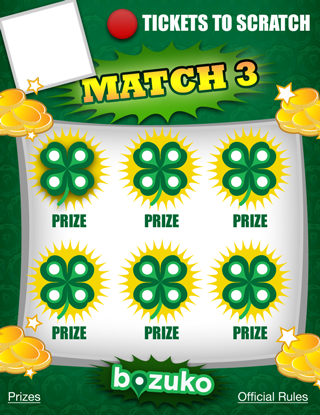
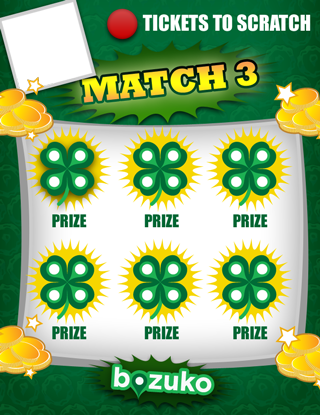
Added correct scratch background

diff --git a/app/static/js/desktop/admin/view/contest/View.js b/app/static/js/desktop/admin/view/contest/View.js
@@ -28,6 +28,9 @@ Ext.define('Bozuko.view.contest.View' ,{
                             '{[this.getDetails(values)]}',
                         '</div>',
                         '<ul class="buttons">',
+                            '<tpl if="this.canReport(values)">',
+                                '<li><a href="javascript:;" class="reports">Reports</a></li>',
+                            '</tpl>',
                             '<tpl if="this.canEdit(values)">',
                                 '<li><a href="javascript:;" class="edit">Edit</a></li>',
                             '</tpl>',
@@ -63,6 +66,10 @@ Ext.define('Bozuko.view.contest.View' ,{
                     return ~['active'].indexOf(values.state);
                 },
                 
+                canReport : function(values){
+                    return ~['active','complete','cancelled'].indexOf(values.state);
+                },
+                
                 getTitle : function(name){
                     return name || 'Untitled Campaign';
                 },
@@ -71,6 +78,12 @@ Ext.define('Bozuko.view.contest.View' ,{
                     return [
                         '<table cellpadding="0" cellspacing="0">',
                             '<tbody>',
+                                '<tr>',
+                                    '<th>Game:</th>',
+                                    '<td>',
+                                    values.game ? values.game.substr(0,1).toUpperCase()+values.game.substr(1) : 'Unknown',
+                                    '<td>',
+                                '<tr>',
                                 '<tr>',
                                     '<th>Timeline:</th>',
                                     '<td>',

diff --git a/app/static/js/desktop/admin/controller/Contests.js b/app/static/js/desktop/admin/controller/Contests.js
@@ -241,9 +241,21 @@ Ext.define('Bozuko.controller.Contests' ,{
                         var copy = record.copy();
                         copy.phantom=true;
                         
-                        // initialize the stores
-                        copy.prizes();
-                        copy.consolation_prizes();
+                        // initialize the stores and delete the ids
+                        var prizes = copy.prizes();
+                        var consolations = copy.consolation_prizes();
+                        
+                        record.prizes().each(function(prize){
+                            var c = prize.copy();
+                            c.set('_id','');
+                            prizes.add(c);
+                        });
+                        
+                        record.consolation_prizes().each(function(prize){
+                            var c = prize.copy();
+                            c.set('_id','');
+                            consolations.add(c);
+                        });
                         
                         var now = new Date();
                             diff = copy.get('end').getTime() - copy.get('start').getTime(),

diff --git a/app/static/js/desktop/admin/view/admin/Dashboard.js b/app/static/js/desktop/admin/view/admin/Dashboard.js
@@ -3,10 +3,44 @@ Ext.define('Bozuko.view.admin.Dashboard' ,{
     extend: 'Ext.panel.Panel',
     alias : 'widget.admindashboard',
     
+    bodyPadding: 10,
+    title:"Admin Dashboard",
+    /*
+    layout: {
+        type: 'vbox',
+        align: 'stretch'
+    },
+    */
     initComponent : function(){
-        this.title = "Admin Dashboard";
+        
         this.html = 'The admin dashboard';
-        this.bodyPadding = 10;
+        
+        /*
+         // okay.. lets add a chart.
+        this.items = [{
+            flex: 1,
+            layout: {
+                type: 'hbox',
+                layout: 'stretch'
+            },
+            items: [{
+                border: false,
+                html: 'pretty big'
+            },{
+                margin: 4,
+                frame: true,
+                title: 'System',
+                layout: 'fit',
+                items: [{
+                    xtype: 'profiler'
+                }]
+            }]
+        },{
+            flex: 2,
+            border: false,
+            html: 'big chart'
+        }];
+        */
         this.callParent();
     }
 });

diff --git a/app/static/css/desktop/business/style.css b/app/static/css/desktop/business/style.css
@@ -76,6 +76,9 @@
 .campaigns-body .campaign-list .list-item .buttons li .cancel {
   background-image: url('/images/icons/SweetiePlus-v2-SublinkInteractive/with-shadows/warning-24.png');
 }
+.campaigns-body .campaign-list .list-item .buttons li .reports {
+  background-image: url('/images/icons/SweetiePlus-v2-SublinkInteractive/with-shadows/clipboard-report-bar-24.png');
+}
 .bozuko-list .list-item {
   cursor: pointer;
   clear: both;

diff --git a/app/static/css/desktop/business/style.less b/app/static/css/desktop/business/style.less
@@ -89,6 +89,9 @@
                     .cancel {
                         background-image: url('/images/icons/SweetiePlus-v2-SublinkInteractive/with-shadows/warning-24.png');
                     }
+                    .reports {
+                        background-image: url('/images/icons/SweetiePlus-v2-SublinkInteractive/with-shadows/clipboard-report-bar-24.png');
+                    }
                 }
             }
         }

diff --git a/app/games/scratch/themes/default/index.js b/app/games/scratch/themes/default/index.js
@@ -11,7 +11,7 @@ inherits(DefaultTheme, ScratchTheme);
 
 DefaultTheme.prototype.name = 'default';
 DefaultTheme.prototype.images = {
-    'background'    :'background.png'
+    'background'    :'background.png?v2'
 };
 
 DefaultTheme.prototype.base = burl('/games/scratch/themes/'+path.basename(__dirname)+'/default_theme' );
